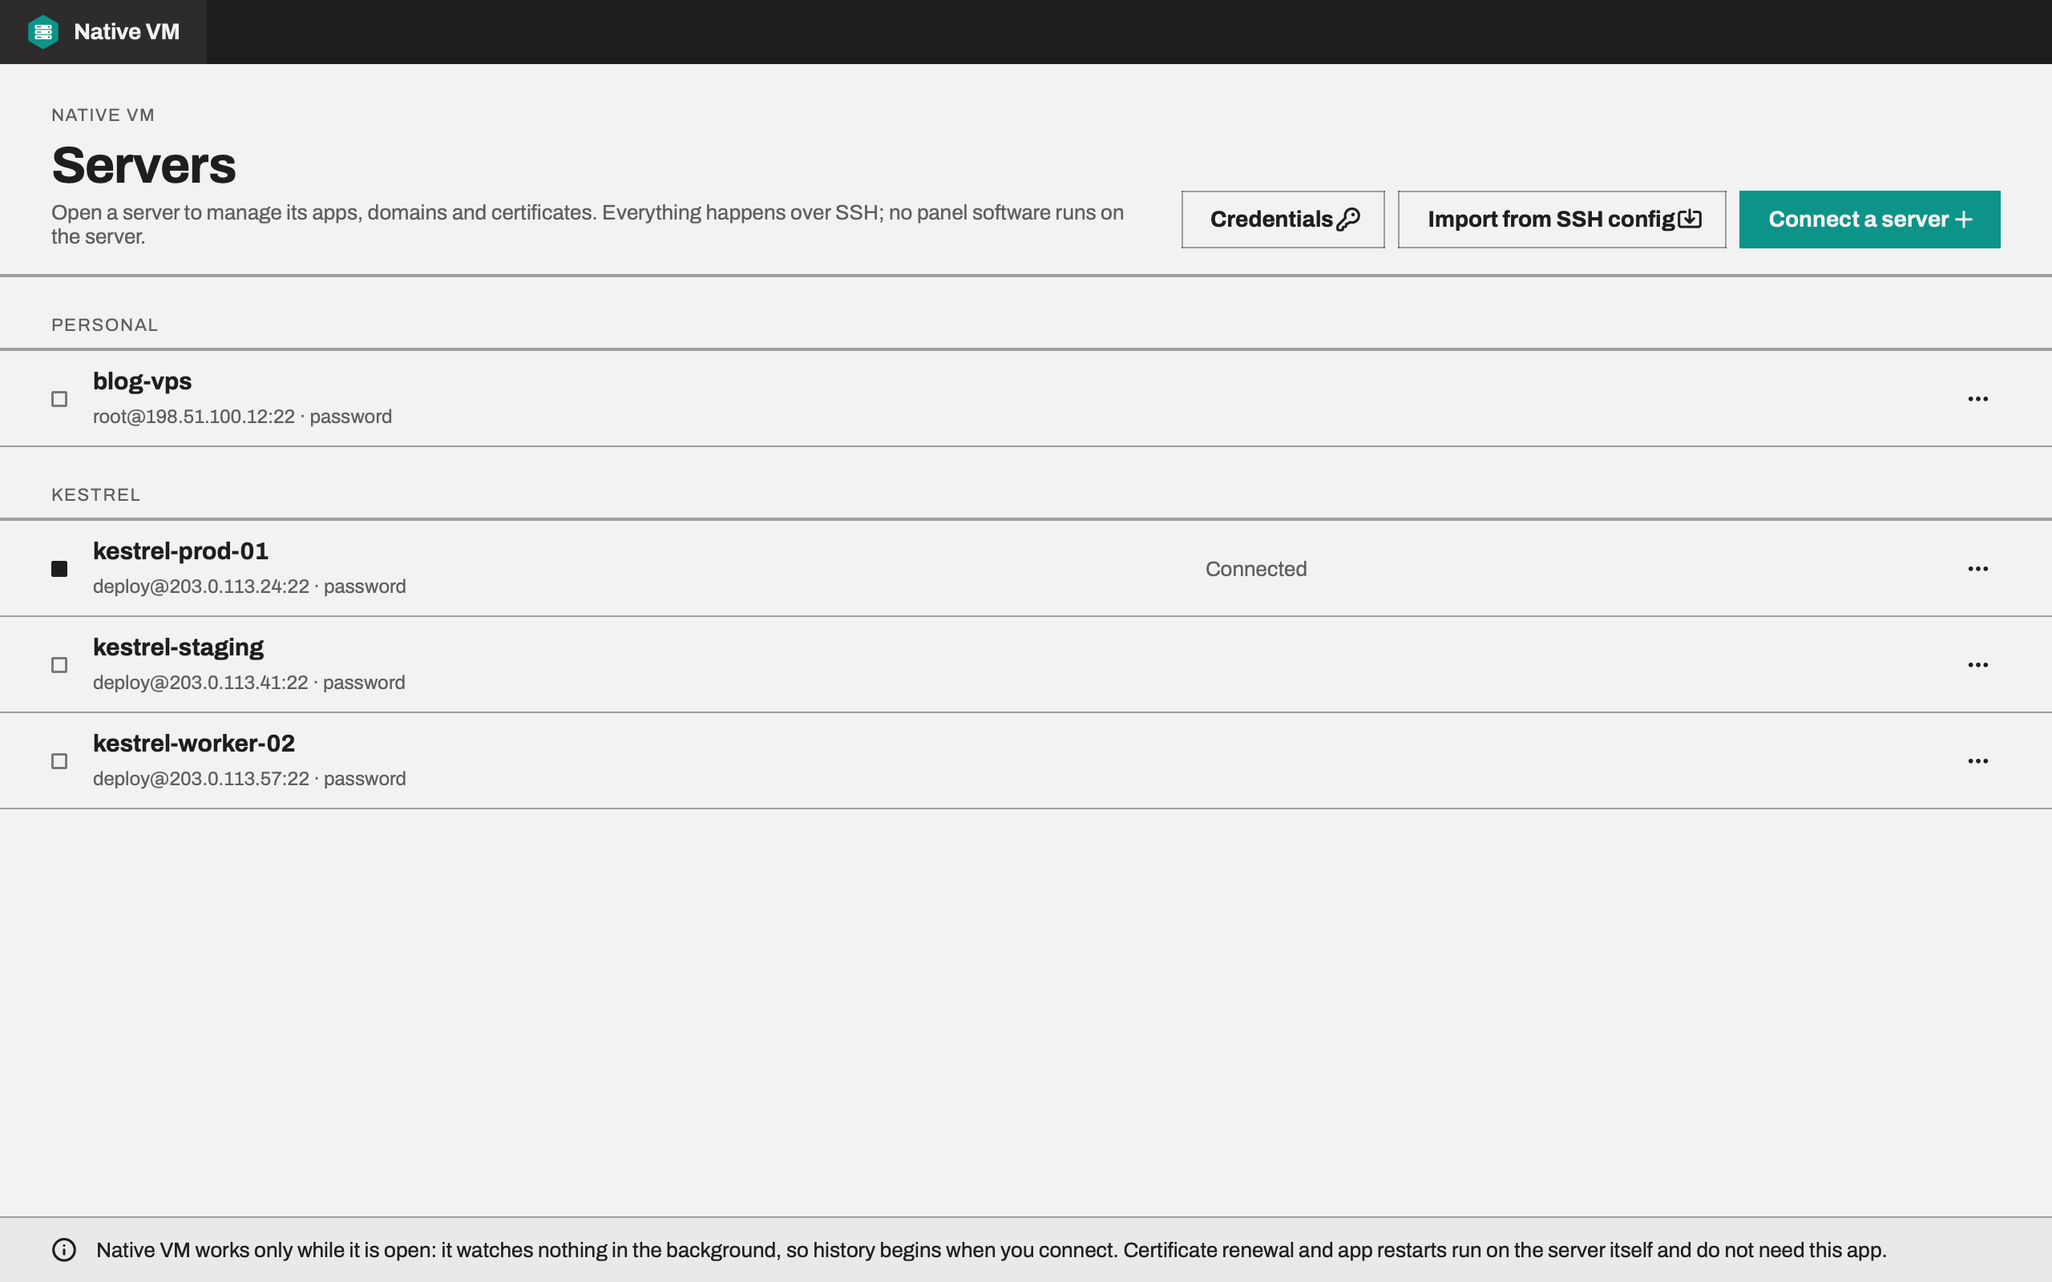
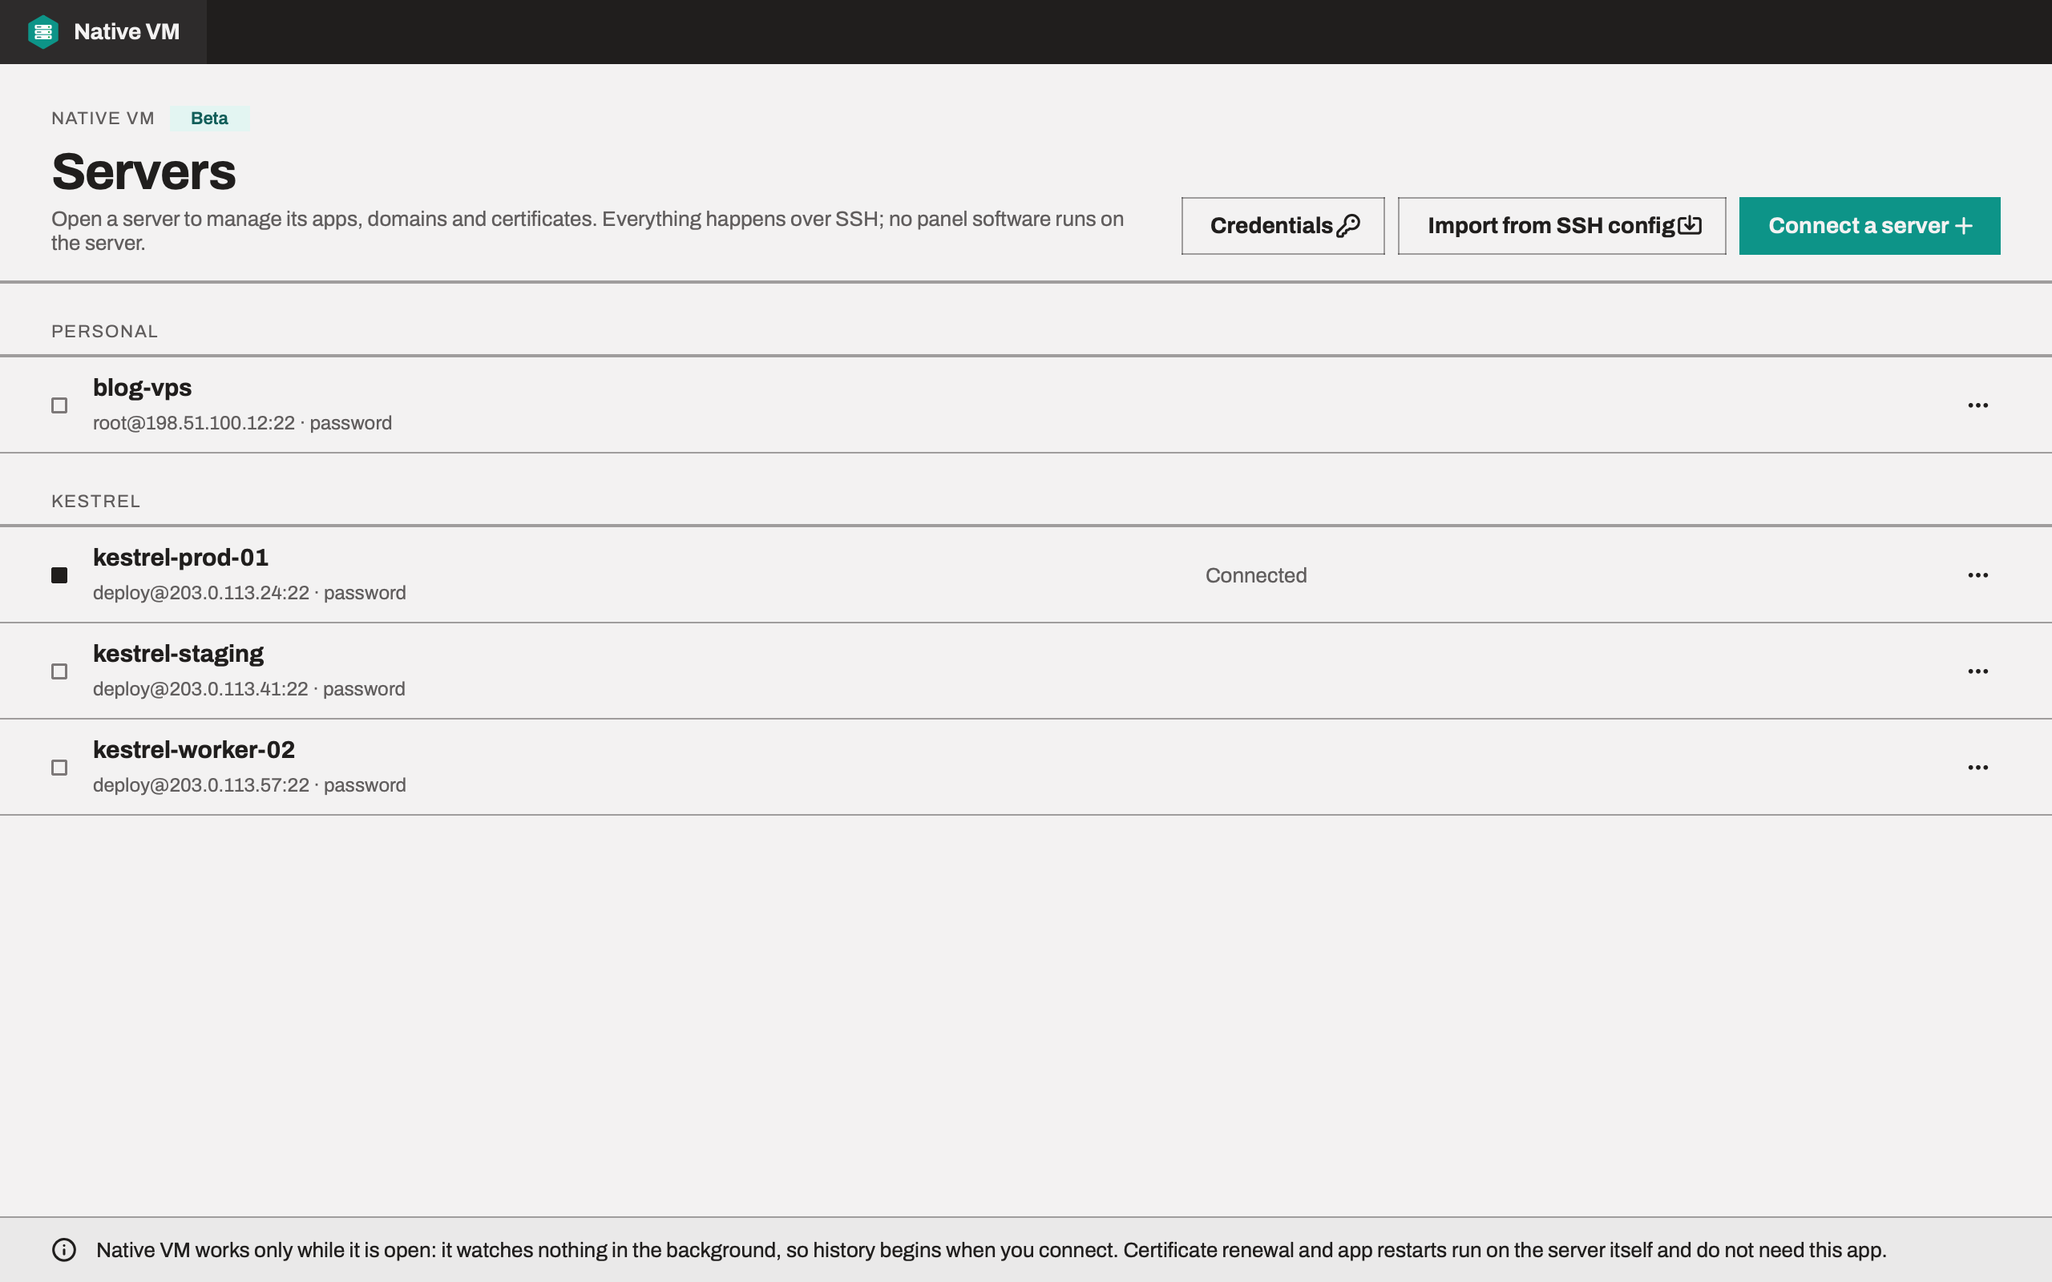
update from version

diff --git a/src/app/download/page.tsx b/src/app/download/page.tsx
@@ -100,7 +100,7 @@ function installSteps(release: Release): { os: string; steps: React.ReactNode[] 
 const highlights = [
   "Free plan with a Native VM account",
   "Your credentials stay on your computer",
-  "One-click Re-Deploy from Git",
+  "One-click deploys from Git",
   "No agent or panel on your servers",
 ];
 
@@ -108,7 +108,7 @@ const releaseNotes = [
   "Native VM for macOS, Windows and Linux, in beta.",
   "Connect Ubuntu 22.04, 24.04 and Debian 12 servers with a key or a password, or import the ones you already use.",
   "A New app wizard for Django, FastAPI, Flask, Express, Next.js, Node.js, static sites, Go, ASP.NET Core, Spring Boot and OpenClaw, from Git or a folder on your computer.",
-  "One-click Re-Deploy of your branch's newest commit, checked before it goes live and put back automatically if it doesn't start.",
+  "One-click Deploy of your branch's newest commit, exactly as the repository has it, checked before it goes live and put back automatically if it doesn't start.",
   "One-click rollback to any of the last five releases.",
   "Domains and free HTTPS certificates that renew on their own.",
   "Live metrics, services and logs, scheduled jobs, a file manager, terminals and Live Monitor.",
@@ -312,7 +312,8 @@ export default async function DownloadPage() {
             </ul>
             <p className="mt-5 text-sm leading-relaxed text-neutral-600">
               An internet connection when the app starts: it checks your plan with your Native VM
-              account. On macOS, the app is about 160 MB to download and 420 MB installed.
+              account, and looks for a newer version. On macOS, the app is about 160 MB to download
+              and 420 MB installed.
             </p>
           </div>
           <div className="reveal border border-ink/12 bg-white p-7 sm:p-9">
@@ -364,15 +365,19 @@ export default async function DownloadPage() {
             </h2>
             <div className="mt-6 space-y-4 text-[15px] leading-relaxed text-neutral-700">
               <p>
-                Click the Native VM logo at the top left of any window to open{" "}
-                <strong className="text-ink">About Native VM</strong>, then{" "}
-                <strong className="text-ink">Check for updates</strong>. The app looks only when you
-                ask, and the check carries nothing about your servers.
+                Native VM looks for a newer version each time it starts, once you&apos;ve signed
+                in. When one is out, it tells you over the Servers window:{" "}
+                <strong className="text-ink">Download</strong> opens the release, and{" "}
+                <strong className="text-ink">Not now</strong> waits until the next launch. To look
+                yourself, click the Native VM logo at the top left of any window to open{" "}
+                <strong className="text-ink">About Native VM</strong>. The check carries nothing
+                about your servers.
               </p>
               <p>
-                Your servers, host keys and settings live in the app&apos;s data folder and survive
-                updates and uninstalls. On macOS, after an update, the system may ask once for your
-                keychain password before the new build reads your saved credentials.
+                Install the new version over the one you have. Your servers, host keys and settings
+                live in the app&apos;s data folder and survive updates and uninstalls. On macOS,
+                after an update, the system may ask once for your keychain password before the new
+                build reads your saved credentials.
               </p>
               <p>
                 Questions about a release? Write to{" "}

diff --git a/src/components/home/deploys.tsx b/src/components/home/deploys.tsx
@@ -23,7 +23,7 @@ const promises: { icon: LucideIcon; title: string; body: string }[] = [
   },
 ];
 
-/** One-click CI/CD: push to Git, press Re-Deploy. */
+/** One-click CI/CD: push to Git, press Deploy. */
 export function Deploys() {
   return (
     <section
@@ -43,15 +43,15 @@ export function Deploys() {
           className="max-w-4xl"
           title={
             <>
-              Push to Git. Click <span className="whitespace-nowrap">Re-Deploy.</span>{" "}
-              <span className="text-gradient">You&apos;re live.</span>
+              Push to Git. Click Deploy. <span className="text-gradient">You&apos;re live.</span>
             </>
           }
         >
           <p className="max-w-2xl">
-            Connect your repository once. After that, shipping is one button: Native VM pulls the
-            newest commit, builds it, checks it&apos;s healthy and switches over, with the same
-            settings every time. No pipeline to write, and no YAML.
+            Connect your repository once. After that, shipping is one button: Native VM takes the
+            newest commit on your branch, exactly as you pushed it, builds it, checks it&apos;s
+            healthy and switches over, with the same settings every time. No pipeline to write, and
+            no YAML.
           </p>
         </SectionIntro>
 
@@ -62,14 +62,14 @@ export function Deploys() {
           </div>
           <div className="reveal">
             <WindowFrame name="appDeploys" sizes="(min-width: 1024px) 700px, 100vw">
-              {/* The real Re-Deploy button, in the app page's header. */}
+              {/* The real Deploy button, in the app page's header (measured on app-deploys.png). */}
               <span
                 aria-hidden
-                className="animate-nudge absolute top-[14.8%] left-[84.7%] h-[4.4%] w-[9.4%] outline-2 outline-offset-2 outline-accent-400"
+                className="animate-nudge absolute top-[14.8%] left-[86.5%] h-[4.4%] w-[7.6%] outline-2 outline-offset-2 outline-accent-400"
               />
             </WindowFrame>
             <p className="mt-3 text-sm text-white/55">
-              In the app: Re-Deploy sits in every app&apos;s header, and the Deploys tab keeps the
+              In the app: Deploy sits in every app&apos;s header, and the Deploys tab keeps the
               releases you can roll back to.
             </p>
           </div>

diff --git a/src/components/home/faq.tsx b/src/components/home/faq.tsx
@@ -10,8 +10,9 @@ const questions: { q: string; a: React.ReactNode }[] = [
     a: (
       <>
         Yes. The whole app is in beta, on macOS, Windows and Linux. It&apos;s in active
-        development, so expect regular updates and the occasional rough edge. When you find one,
-        write to <a href={`mailto:${site.contact.email}`}>{site.contact.email}</a>.
+        development, so expect regular updates and the occasional rough edge. The app tells you
+        when a new version is out. When you find a rough edge, write to{" "}
+        <a href={`mailto:${site.contact.email}`}>{site.contact.email}</a>.
       </>
     ),
   },
@@ -20,9 +21,9 @@ const questions: { q: string; a: React.ReactNode }[] = [
     a: (
       <>
         No. Your SSH keys, server passwords and Git tokens stay on your computer, in your
-        system&apos;s keychain. Native VM connects straight to your servers. It contacts us only to
-        check your plan when you sign in, and for updates when you ask, and neither carries anything
-        about your servers.
+        system&apos;s keychain. Native VM connects straight to your servers. Otherwise it goes online
+        only to check your plan and to see whether a newer version is out, and neither carries
+        anything about your servers.
       </>
     ),
   },
@@ -31,8 +32,8 @@ const questions: { q: string; a: React.ReactNode }[] = [
     a: (
       <>
         Create the app from its Git repository once. Whenever you push new commits, press{" "}
-        <strong>Re-Deploy</strong>: Native VM fetches the newest commit, builds it, checks
-        it&apos;s running and switches over. If the new version doesn&apos;t start, the previous one
+        <strong>Deploy</strong>: Native VM fetches the newest commit on your branch, builds it,
+        checks it&apos;s running and switches over. If the new version doesn&apos;t start, the previous one
         keeps serving, and any earlier release is one click away.
       </>
     ),

diff --git a/src/components/home/hero.tsx b/src/components/home/hero.tsx
@@ -52,9 +52,8 @@ export async function Hero() {
 
           <p className="animate-rise mx-auto mt-7 max-w-2xl text-lg leading-relaxed text-white/68 [animation-delay:160ms] sm:text-xl">
             Native VM is the desktop app that sets up your server, deploys your apps and keeps them
-            running. Push to Git, click <span className="whitespace-nowrap">Re-Deploy</span>, and
-            you&apos;re live. Your keys and passwords
-            never leave your computer.
+            running. Push to Git, click Deploy, and you&apos;re live. Your keys and passwords never
+            leave your computer.
           </p>
 
           <div className="animate-rise mt-9 flex flex-col items-center justify-center gap-3 [animation-delay:240ms] sm:flex-row">
@@ -96,7 +95,7 @@ export async function Hero() {
             <p className="mt-2 font-semibold">Show delivery estimates</p>
             <p className="mt-0.5 font-mono text-[12px] text-neutral-600">kestrel-api · 4e81d07</p>
             <p className="mt-4 flex h-9 items-center justify-center gap-2 bg-accent text-sm font-semibold text-white">
-              Re-Deploy <Rocket className="size-3.5" />
+              Deploy <Rocket className="size-3.5" />
             </p>
             <p className="mt-3 flex items-center gap-2 text-[13px] text-neutral-600">
               <Mark tone="ok" className="text-accent" /> Built, checked and live in one click

diff --git a/src/components/home/redeploy-demo.tsx b/src/components/home/redeploy-demo.tsx
@@ -35,8 +35,8 @@ function StepMark({ state }: { state: StepState }) {
 }
 
 /**
- * An app's header and deploy, as a demo: press Re-Deploy and watch the newest commit on
- * main go live. Nothing leaves the page.
+ * An app's header and deploy, as a demo: press Deploy and watch the newest commit on main
+ * go live. Nothing leaves the page.
  */
 export function RedeployDemo() {
   // null before the first deploy; the step running; steps.length once it's done.
@@ -56,7 +56,7 @@ export function RedeployDemo() {
 
   const status =
     step === null
-      ? "Interactive demo: press Re-Deploy to ship the newest commit on main."
+      ? "Interactive demo: press Deploy to ship the newest commit on main."
       : running
         ? `Deploying ${newest.sha}: ${steps[step].toLowerCase()}…`
         : `Deployed ${newest.sha}. The release before stays on the server, ready to roll back to.`;
@@ -91,7 +91,7 @@ export function RedeployDemo() {
               </>
             ) : (
               <>
-                Re-Deploy <Rocket className="size-4" aria-hidden />
+                Deploy <Rocket className="size-4" aria-hidden />
               </>
             )}
           </button>

diff --git a/src/lib/screens.ts b/src/lib/screens.ts
@@ -43,7 +43,7 @@ export const screens = {
   appDeploying: {
     image: appDeploying,
     title: "kestrel-api · Deploying",
-    alt: "A deploy in progress: the code is fetched and the release prepared, Install and build is running, and its output streams beside the steps.",
+    alt: "A deploy in progress: the newest commit on main is fetched, three commits ahead of the running release, the release is prepared, Install and build is running, and its output streams beside the steps.",
   },
   newApp: {
     image: newApp,
@@ -73,7 +73,7 @@ export const screens = {
   launcher: {
     image: launcher,
     title: "Servers",
-    alt: "The Servers window: saved servers grouped by client or project, with Connect a server and Import from SSH config.",
+    alt: "The Servers window, with a Beta tag beside Native VM's name: saved servers grouped by client or project, with Credentials, Import from SSH config and Connect a server.",
   },
   signIn: {
     image: signIn,

diff --git a/src/components/home/security.tsx b/src/components/home/security.tsx
@@ -158,8 +158,8 @@ export function Security() {
           <CloudOff className="mt-0.5 size-5 shrink-0 text-white/45" aria-hidden />
           <span>
             <strong className="font-semibold text-white">No Native VM cloud in between.</strong>{" "}
-            The app contacts us for two things only: your plan, when you sign in, and updates, when
-            you ask. Neither carries anything about your servers.
+            Besides your servers, the app goes online for two things only: checking your plan, and
+            seeing whether a newer version is out. Neither carries anything about your servers.
           </span>
         </p>
 

diff --git a/src/lib/plans.ts b/src/lib/plans.ts
@@ -13,7 +13,7 @@ export const planRows: PlanRow[] = [
   { feature: "Servers", free: "2", pro: "Unlimited" },
   { feature: "Apps on each server", free: "2", pro: "Unlimited" },
   { feature: "Scheduled jobs on each server", free: "1", pro: "Unlimited" },
-  { feature: "One-click Re-Deploy and rollback", free: true, pro: true },
+  { feature: "One-click deploys and rollback", free: true, pro: true },
   { feature: "Domains and free HTTPS", free: true, pro: true },
   { feature: "Environment variables and .env upload", free: true, pro: true },
   { feature: "Custom build and start commands", free: true, pro: true },

diff --git a/src/components/home/stats.tsx b/src/components/home/stats.tsx
@@ -6,7 +6,7 @@ import { Container } from "@/components/ui";
 import { frameworks } from "@/lib/frameworks";
 
 const stats = [
-  { value: "1", unit: "click", label: "to deploy your newest commit, with Re-Deploy" },
+  { value: "1", unit: "click", label: "to deploy your newest commit from Git" },
   { value: "0", unit: "", label: "server credentials collected: keys, passwords and tokens stay with you" },
   { value: "0.5", unit: "s", label: "to roll back to the release before, if one misbehaves" },
   { value: "3", unit: "", label: "desktop platforms in beta: macOS, Windows and Linux" },

diff --git a/src/components/home/workflow.tsx b/src/components/home/workflow.tsx
@@ -41,7 +41,7 @@ const steps: Step[] = [
     key: "deploy",
     title: "Deploy in one click",
     summary:
-      "Native VM fetches your code, builds it and checks it's answering before it goes live. From then on, push to Git and press Re-Deploy.",
+      "Native VM fetches your code, builds it and checks it's answering before it goes live. From then on, push to Git and press Deploy.",
     points: [
       "A build that fails never takes your site down.",
       "Roll back to an earlier release in one click.",

diff --git a/src/components/docs/doc-parts.tsx b/src/components/docs/doc-parts.tsx
@@ -70,7 +70,7 @@ const startHere: { title: string; href: string; body: string; icon: LucideIcon }
   {
     title: "Deploys and rollback",
     href: "/docs/deploys",
-    body: "One-click Re-Deploy, health checks and rolling back.",
+    body: "One-click deploys from Git, health checks and rolling back.",
     icon: RotateCcw,
   },
   {

diff --git a/scripts/capture-screens.py b/scripts/capture-screens.py
@@ -3,6 +3,8 @@
 Runs the desktop app's own window, model and screens offscreen. The server is the panel
 rig's fixed sample (kestrel-prod-01, in tests/panel_rig.py): nothing connects anywhere,
 the keychain is an in-memory stand-in, and the data folder is a temporary directory.
+The update check the app makes after signing in reads a file naming this build as the
+latest release, as the app's own tests do, so it never asks GitHub and offers nothing.
 Nothing is written into the app's repository.
 
 Run it with the app's own virtualenv, from the app's repository:
@@ -38,7 +40,7 @@ from PySide6.QtWidgets import QApplication, QWidget  # noqa: E402
 app = QApplication(sys.argv[:1])
 
 from account_rig import AccountServer  # noqa: E402
-from conftest import InMemorySecrets, pump_until  # noqa: E402
+from conftest import InMemorySecrets, latest_release, pump_until  # noqa: E402
 from panel_rig import (  # noqa: E402
     GB,
     HOST,
@@ -48,6 +50,7 @@ from panel_rig import (  # noqa: E402
 )
 
 from nativevm.app import build_services, build_windows  # noqa: E402
+from nativevm.core.about import APP  # noqa: E402
 from nativevm.core.apps import AppStatus  # noqa: E402
 from nativevm.core.metrics import (  # noqa: E402
     CpuSample,
@@ -201,13 +204,13 @@ def main() -> None:
 
     services.monitoring.journal = journal  # type: ignore[method-assign]
 
-    # A redeploy that streams the agent's own progress lines, then keeps building.
+    # A deploy that streams the agent's own progress lines, then keeps building. The
+    # fetch names the branch tip's whole commit, and how it follows the running release.
     deploy_lines = [
         "Fetching https://github.com/kestrel/api.git (main)",
-        "From https://github.com/kestrel/api",
-        "   9f2c1ab..4e81d07  main       -> main",
-        "Exporting 4e81d07 into /srv/kestrel-api/releases/20261106T091512Z-4e81d07",
-        "Linking shared/.env into the release",
+        "  at 4e81d07a3c9f52b6e0d14f8a7c2b95e3d6f01a48 Show delivery estimates",
+        "  3 new commits since the running release (9f2c1ab).",
+        "Exporting 4e81d07 to releases/20261106T091512Z-4e81d07",
         "$ uv sync --frozen --python 3.12",
         "Using CPython 3.12.12",
         "Creating virtual environment at: .venv",
@@ -229,7 +232,9 @@ def main() -> None:
 
     services.deploy.redeploy = redeploy  # type: ignore[method-assign]
 
-    windows = build_windows(services, endpoints=account.endpoints)
+    # The release check finds this very build, so no update is offered over the launcher.
+    release_api = latest_release(tmp / "latest-release.json", f"v{APP.version}")
+    windows = build_windows(services, endpoints=account.endpoints, release_api=release_api)
 
     # The account window, as a new install opens on it.
     try:
@@ -323,7 +328,7 @@ def main() -> None:
     except Exception as error:  # noqa: BLE001
         print("cron capture skipped:", error)
 
-    # A redeploy in progress, on the app's Deploys tab.
+    # A deploy in progress, on the app's Deploys tab.
     try:
         window.open_app("kestrel-api", "deploys")
         settle(0.5)
